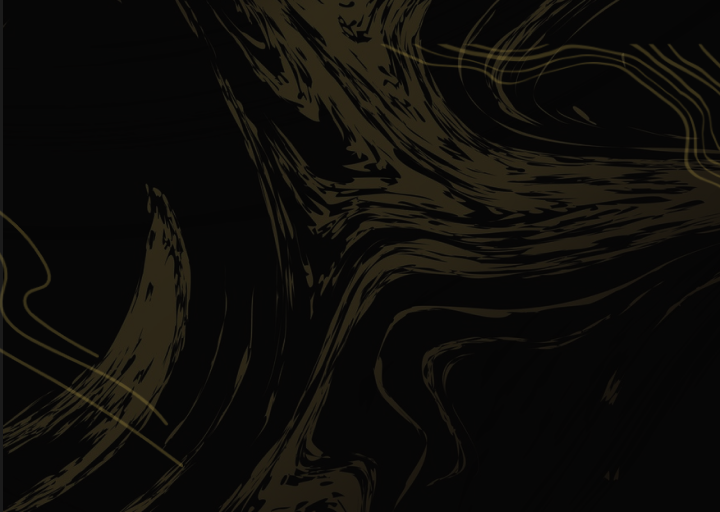
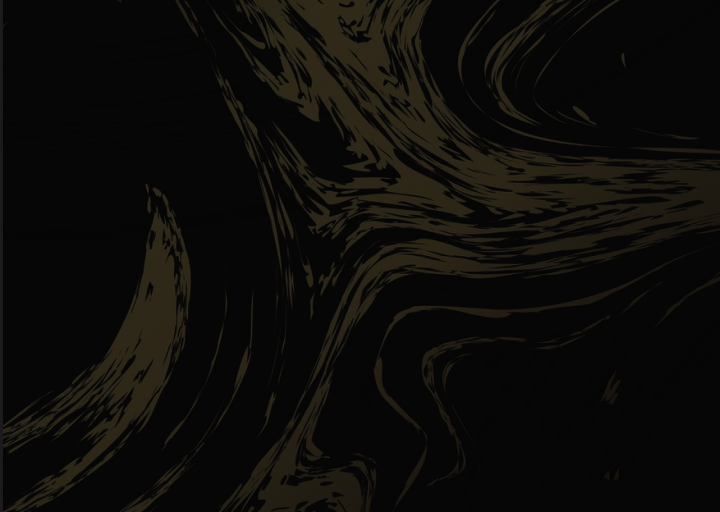
visimisi not responsive yet

diff --git a/assets/css/visimisi.css b/assets/css/visimisi.css
@@ -1,0 +1,30 @@
+.bg {
+   background-image: url("images/visibg.png"), url("images/lines.png");
+   background-position: center, center;
+   background-size: cover;
+   background-repeat: no-repeat;
+}
+
+.vmm {
+   justify-content: center;
+}
+.vm {
+   align-items: center;
+   text-align: center;
+}
+
+.vm > h1 {
+   font-family: "Playfair Display", serif;
+   color: white;
+   font-size: 4vw;
+   font-weight: 800;
+   margin-top: 3%;
+}
+
+.vm > p {
+   font-family: "News Cycle", sans-serif;
+   color: #d8ba55;
+   font-size: 2vw;
+   font-weight: 400;
+   margin: 0 5% 10% 5%;
+}

diff --git a/visimisi.php b/visimisi.php
@@ -1,0 +1,18 @@
+<?php include 'assets/header.php'; ?>
+<link rel="stylesheet" type="text/css" href="assets/css/visimisi.css">
+</head>
+
+<body>
+   <?php include 'assets/nav.php'; ?>
+   <div class="bg-image bg">
+      <div class="d-flex flex-row vmm">
+         <div class="col-8 d-flex flex-column vm">
+            <h1>VISI</h1>
+            <p>Menjadi perusahaan yang berkembang dan bermanfaat untuk memenuhi kebutuhan klien atau mitra.</p>
+            <h1>MISI</h1>
+            <p>Produktif dalam membangun bisnis dan aset yang dimiliki secara terintegrasi guna memberikan manfaat dan pelayanan yang luas kepada klien atau mitra</p>
+         </div>
+      </div>
+   </div>
+
+   <?php include 'assets/footer.php'; ?>

diff --git a/assets/nav.php b/assets/nav.php
@@ -11,7 +11,7 @@
                     <a class="nav-link" href="#" style="color: white;">HOME</a>
                 </li>
                 <li class="nav-item mx-5">
-                    <a class="nav-link" href="#" style="color: white;">VISI & MISI</a>
+                    <a class="nav-link" href="visimisi.php" style="color: white;">VISI & MISI</a>
                 </li>
                 <li class="nav-item mx-5">
                     <a class="nav-link" href="#" style="color: white;">TEAM</a>
